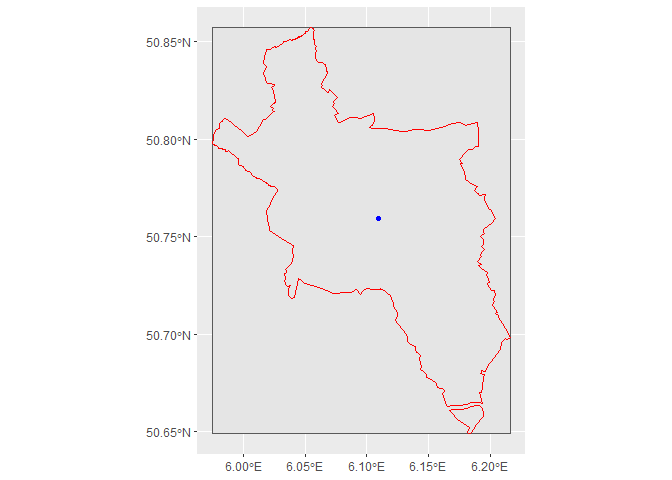
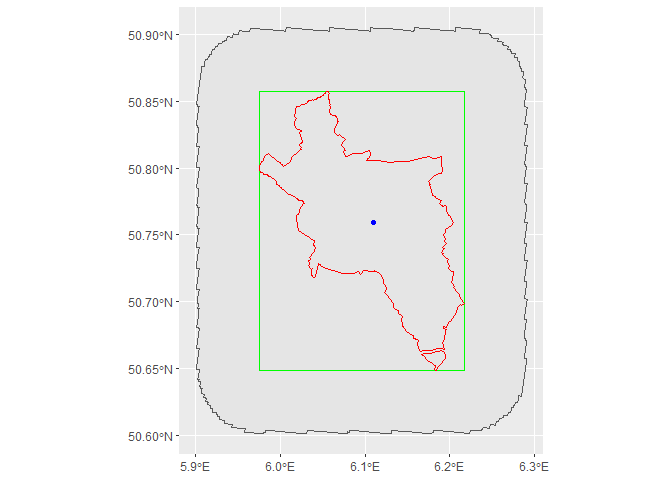
enh(get_extent): buffer
fixes #13

diff --git a/README.md b/README.md
@@ -33,17 +33,22 @@ Just a few quick insights on the use of this package:
 
 ``` r
 library(vg250)
-#> 0.4.5
+#> 0.5.0
 
 # fetch data
-geom <- get_geometry("Aachen")
-e <- get_extent("Aachen")
-p <- get_centroid("Aachen")
+name <- "Aachen"
+
+geom <- get_geometry(name)
+e <- get_extent(name)
+b <- get_extent(name, buffer = 5000)
+p <- get_centroid(name)
 
 # check classes
 class(geom)
 #> [1] "sfc_MULTIPOLYGON" "sfc"
 class(e)
+#> [1] "sfc_POLYGON" "sfc"
+class(b)
 #> [1] "sfc_POLYGON" "sfc"
 class(p)
 #> [1] "sfc_POINT" "sfc"
@@ -52,7 +57,8 @@ class(p)
 library(ggplot2)
 
 ggplot() + 
-  geom_sf(data = e) + 
+  geom_sf(data = b) + 
+  geom_sf(data = e, col = "green") + 
   geom_sf(data = geom, col = "red") + 
   geom_sf(data = p, col = "blue")
 ```
